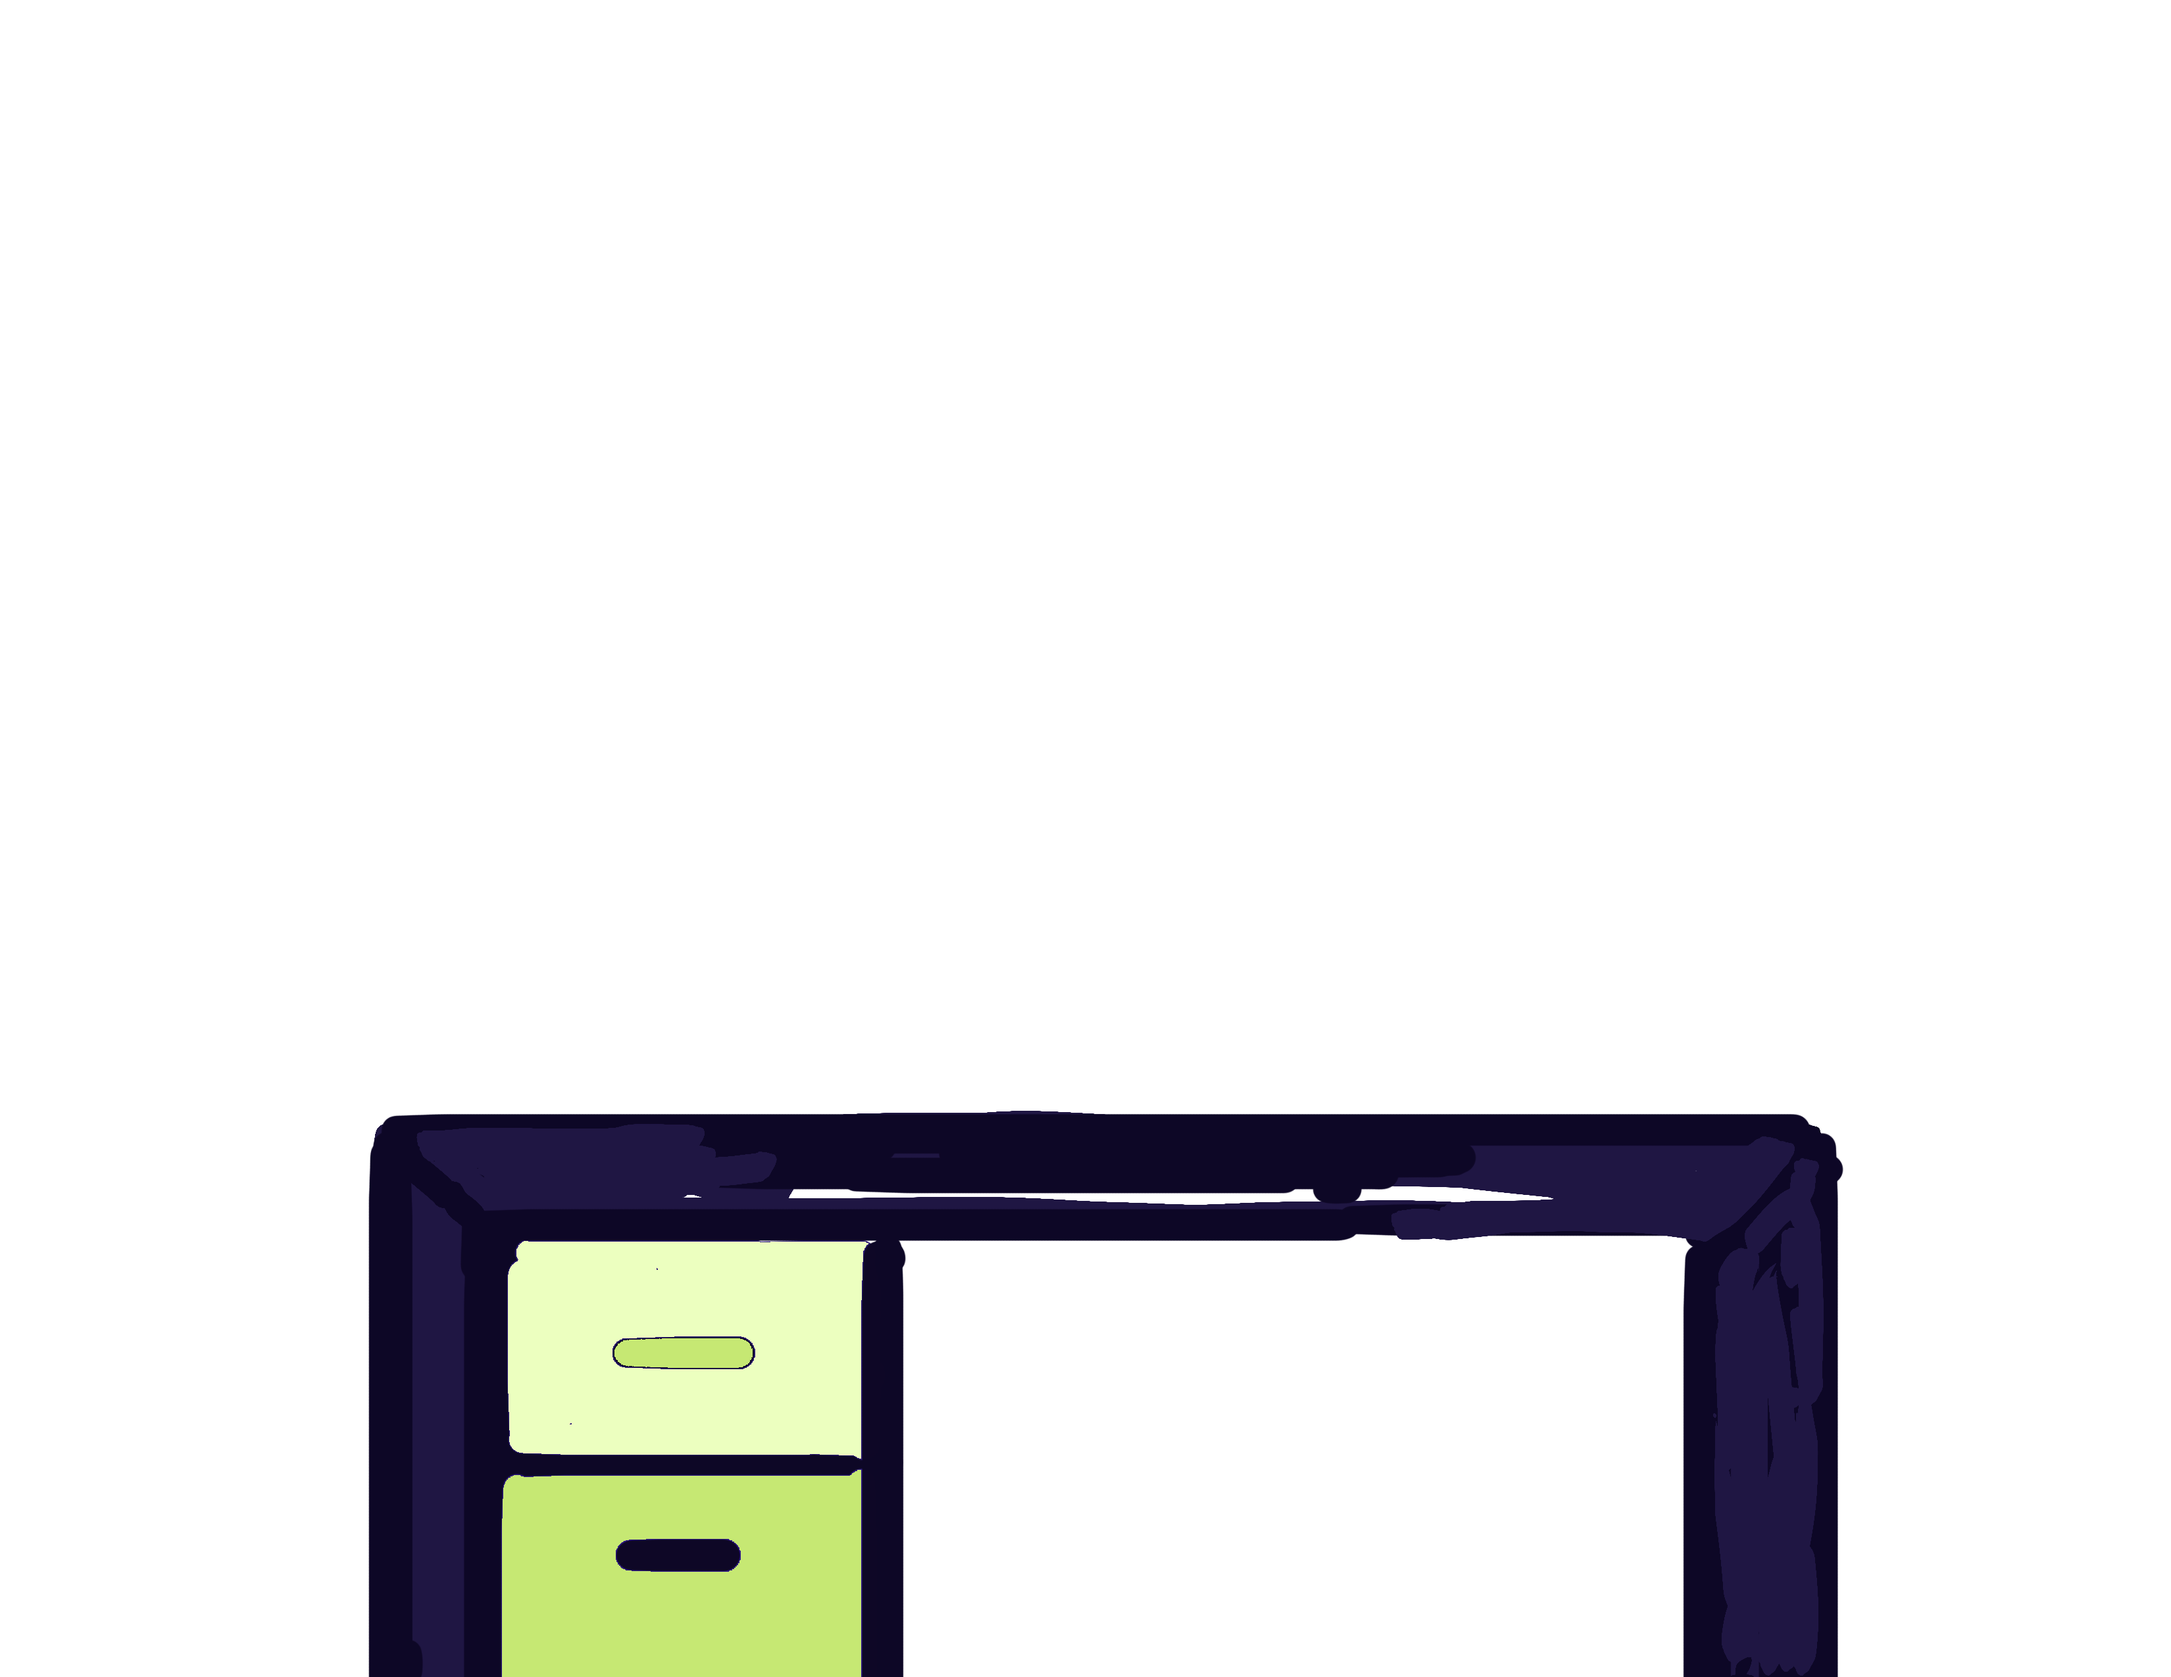
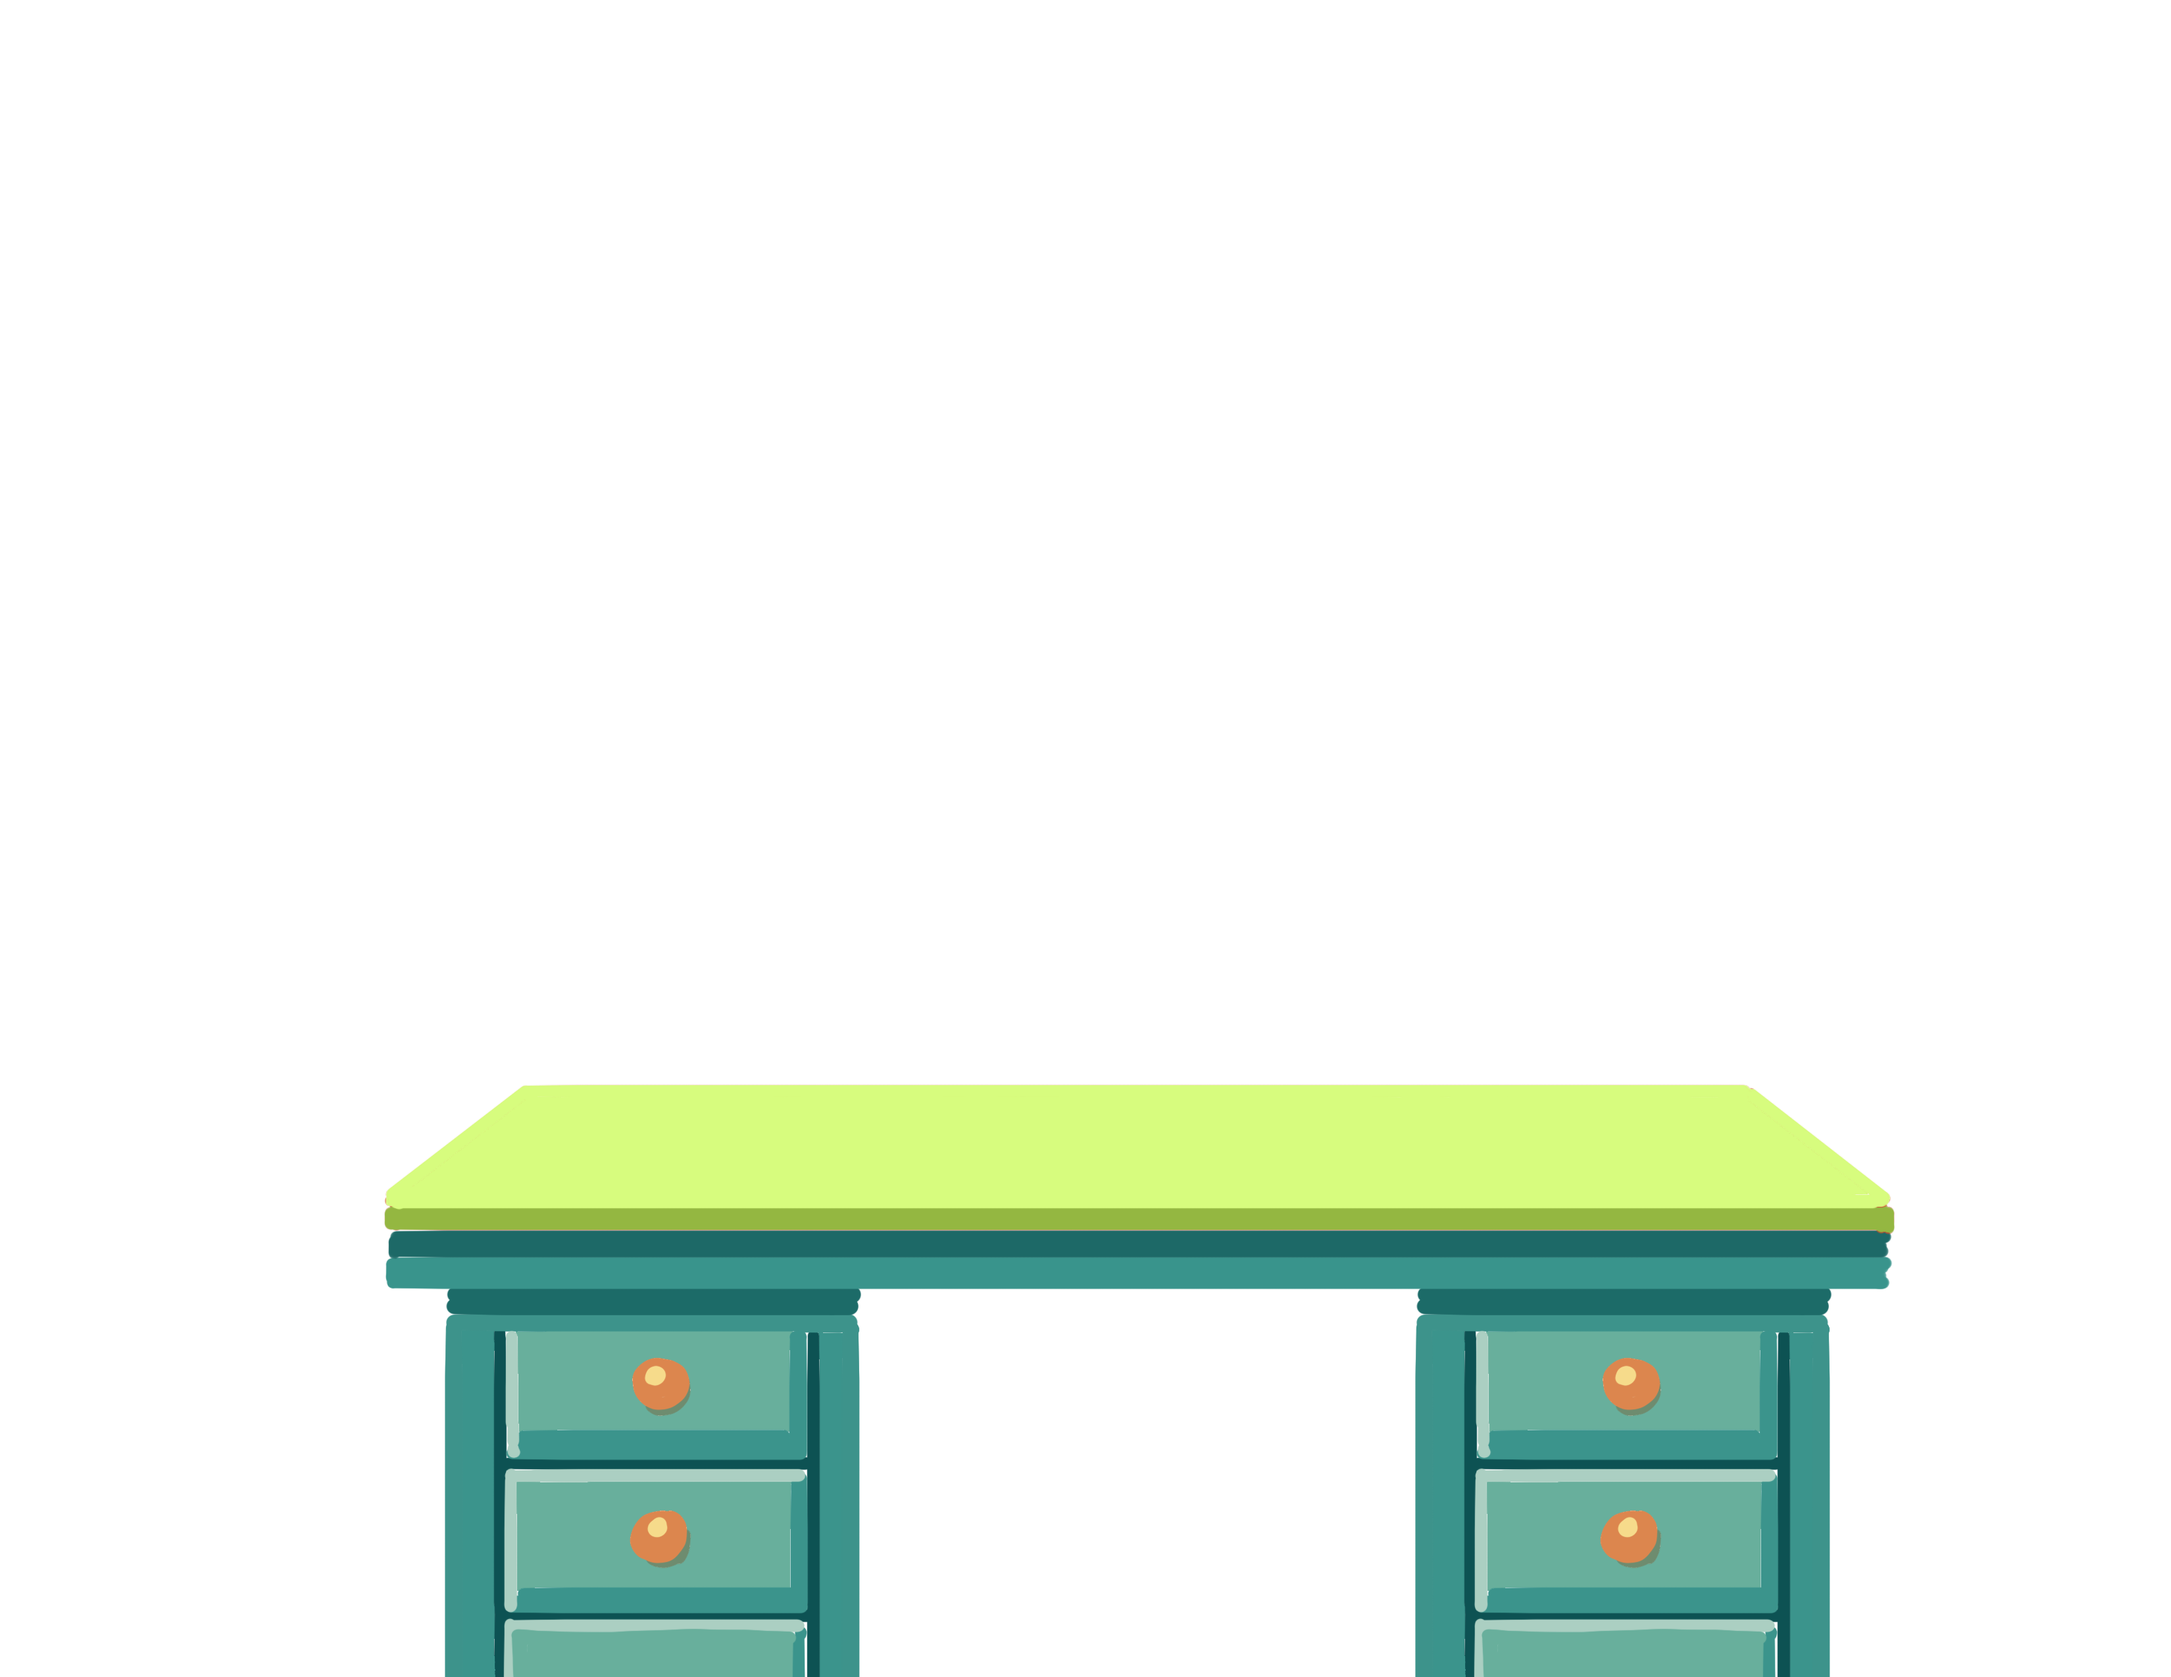
updated hero section with new images

Changed region(s): [[0.1561, 0.6196, 0.8739, 1.0]]

diff --git a/hero/hero.js b/hero/hero.js
@@ -54,9 +54,11 @@ let curtains = document.getElementById("curtains");
 let wall = document.getElementById("wall");
 let dev = document.getElementById("dev");
 let skyline = document.getElementById("skyline");
+let buildings = document.getElementById("buildings");
 let moon = document.getElementById("moon");
 let screen1 = document.getElementById("screen1");
 let shadow = document.getElementById("shadow");
+
 
 
 
@@ -69,7 +71,8 @@ let moveName = () => {
     desk.style.top = scrollValue * .3 + "px";
     dev.style.top = scrollValue * .2 + "px";
     moon.style.top = scrollValue * .7 + "px";
-    skyline.style.top = scrollValue * .5 + "px";
+    skyline.style.left = scrollValue * .5 + "px";
+     buildings.style.bottom = scrollValue * .2 + "px";
      shadow.style.bottom = scrollValue * .9 + "px";
     // screen1.style.top = scrollValue  + "px";
   })

diff --git a/hero/hero.css b/hero/hero.css
@@ -13,7 +13,7 @@
   background-size: cover; */
   margin: 0px !important;
   padding: 100px !important;
-  background-color: rgb(72, 40, 147);
+  background-color: rgb(25, 9, 63);
 }
 
 
@@ -26,6 +26,7 @@
   overflow: hidden;
   width: 100%;
   height: 100%;
+ 
 }
 
 #monitor {
@@ -43,10 +44,10 @@
 }
 
 #window {
-  width: 105%;
-  height: 100%;
+  width: 80%;
+  height: 95%;
   position: absolute;
-  top: -10px;
+  /* top: -10px; */
 }
 
 #curtains {
@@ -79,7 +80,7 @@
   height: 125px;
   position: absolute;
   top: 0px;
-  left: 15%;
+ right: 15%;
   box-shadow: 0px 0px 110px rgb(227, 204, 54);
   background-color: rgb(241, 238, 161);
   border-radius: 100%;
@@ -138,7 +139,13 @@
 }
 
 #skyline {
-  width: 90%;
+  width: 50%;
+  height: 100%;
+  position: absolute;
+}
+
+#buildings {
+  width: 75%;
   height: 100%;
   position: absolute;
 }

diff --git a/index.html b/index.html
@@ -65,6 +65,7 @@
         <div id="moon"></div>
 
         <img id="skyline" src="images/hero/skyline.png" alt="skyline" />
+         <img id="buildings" src="images/hero/buildings.png" alt="buildings" />
         <img id="window" src="images/hero/window.png" alt="floor" />
         <img id="desk" src="images/hero/desk.png" alt="desk" />
 
